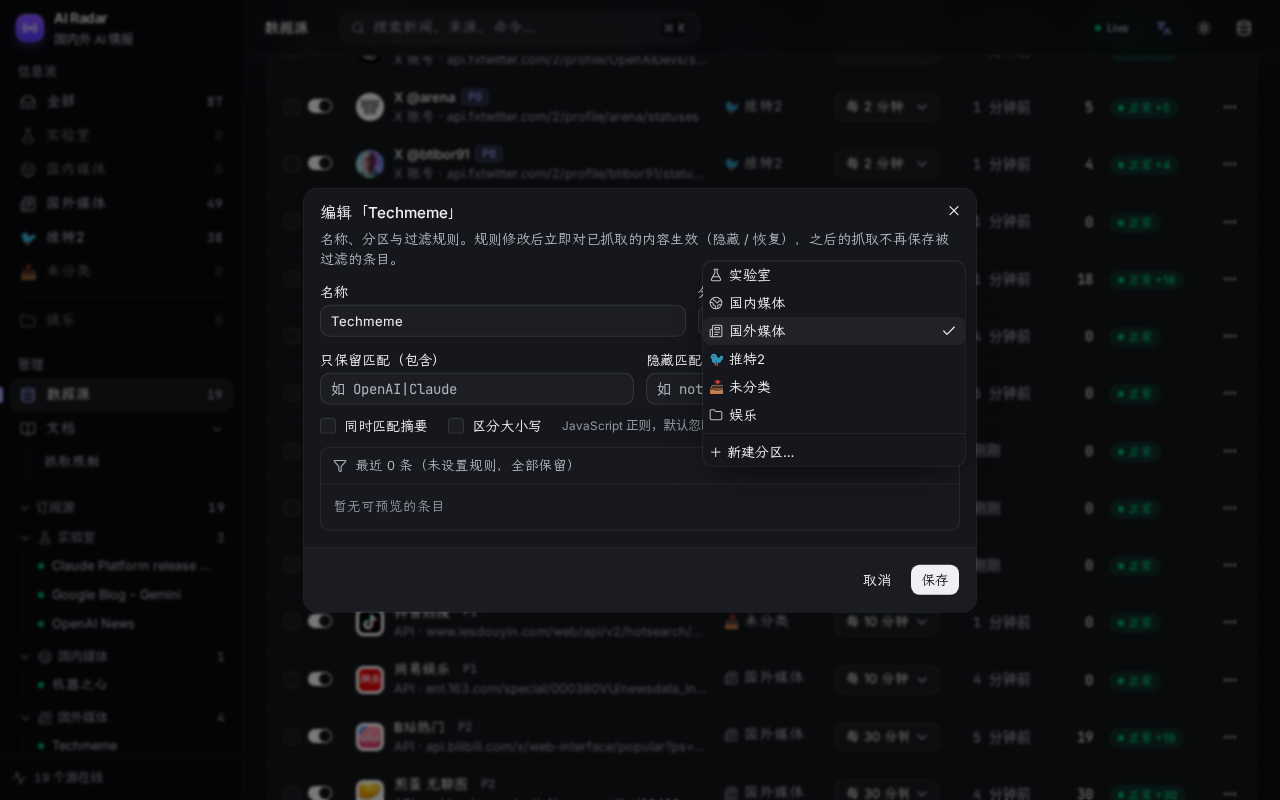
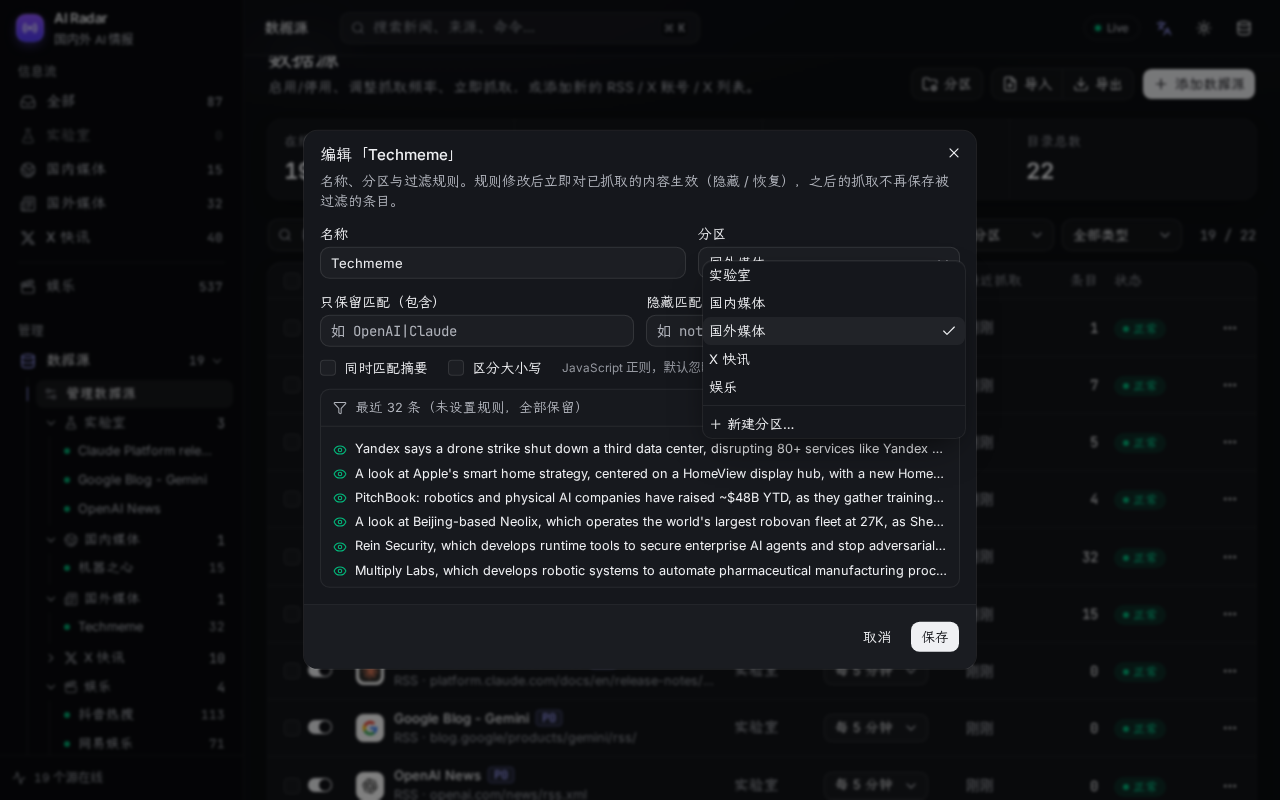
feat: sidebar 数据源 collapsible group with per-section source folders; section selects show names only

diff --git a/src/components/app-shell.tsx b/src/components/app-shell.tsx
@@ -152,15 +152,15 @@ function useClosedFolders() {
 }
 function SourceFolder({ s, icon: Icon, list, open, onToggle, children }: { s: Section; icon: React.ElementType; list: SourceRow[]; open: boolean; onToggle: () => void; children: React.ReactNode }) {
   return (
-    <Collapsible open={open} onOpenChange={onToggle} className="pt-1">
-      <CollapsibleTrigger aria-label={`文件夹：${s.zh}`} className="group flex h-7 w-full items-center gap-1.5 rounded-md px-2 type-meta text-faint outline-none transition-colors duration-150 ease-out hover:bg-hover hover:text-foreground focus-visible:ring-3 focus-visible:ring-ring/50">
+    <Collapsible open={open} onOpenChange={onToggle}>
+      <CollapsibleTrigger aria-label={`文件夹：${s.zh}`} className="group flex h-7 w-full items-center gap-1.5 rounded-md px-2 type-caption text-muted-foreground outline-none transition-colors duration-150 ease-out hover:bg-hover hover:text-foreground focus-visible:ring-3 focus-visible:ring-ring/50">
         <ChevronRight className="size-3.5 shrink-0 transition-transform duration-200 ease-out group-data-[panel-open]:rotate-90" />
         <Icon className="size-3.5 shrink-0 opacity-80" />
         <span className="min-w-0 flex-1 truncate text-left">{s.zh}</span>
         <span className="font-mono tabular-nums" title={`${list.length} 个来源`}>{list.length}</span>
       </CollapsibleTrigger>
       <CollapsibleContent>
-        <div role="group" aria-label={`${s.zh} 的订阅源`} className="relative ml-[13px] space-y-px border-l border-border pl-1.5">{children}</div>
+        <div role="group" aria-label={`${s.zh} 的订阅源`} className="relative ml-[13px] space-y-px border-l border-border pb-0.5 pl-1.5">{children}</div>
       </CollapsibleContent>
     </Collapsible>
   );
@@ -171,40 +171,46 @@ function SectionLabel({ children, first }: { children: React.ReactNode; first?: 
 }
 
 const DOCS_KEY = "sidebar.docs.open";
-function DocsGroup({ path, onGo }: { path: string; onGo: (href: string) => void }) {
-  const inDocs = path.startsWith("/docs");
-  const [open, setOpen] = useState(true);
-  useEffect(() => { const v = localStorage.getItem(DOCS_KEY); if (v != null) setOpen(v === "1"); }, []);
-  const toggle = (b: boolean) => { setOpen(b); localStorage.setItem(DOCS_KEY, b ? "1" : "0"); };
+const SOURCES_KEY = "sidebar.sources.open";
+/** Collapsible sidebar group (文档, 数据源): header row + chevron; open state persisted in localStorage `storageKey`.
+ *  `onHeader` (optional) makes the label navigate (文档 → /docs); without it the whole header toggles. */
+function NavGroup({ icon: Icon, label, count, storageKey, defaultOpen = true, current, inside, onHeader, children }: {
+  icon: React.ElementType; label: string; count?: number; storageKey: string; defaultOpen?: boolean; current?: boolean; inside?: boolean; onHeader?: () => void; children: React.ReactNode;
+}) {
+  const [open, setOpen] = useState(defaultOpen);
+  useEffect(() => { const v = localStorage.getItem(storageKey); if (v != null) setOpen(v === "1"); }, [storageKey]);
+  const toggle = (b: boolean) => { setOpen(b); localStorage.setItem(storageKey, b ? "1" : "0"); };
   return (
     <Collapsible open={open} onOpenChange={toggle}>
       <div className={cn("group relative flex h-8 w-full items-center rounded-lg type-body font-medium tracking-[-0.005em] transition-colors duration-150 ease-out",
-        path === "/docs" ? "bg-sidebar-accent text-sidebar-accent-foreground shadow-[inset_0_0_0_1px_var(--sidebar-border)]" : inDocs ? "text-foreground" : "text-muted-foreground hover:bg-hover hover:text-foreground")}>
-        {path === "/docs" && <span className="absolute -left-2.5 top-1/2 h-4 w-[3px] -translate-y-1/2 rounded-r-full bg-brand" />}
-        <button onClick={() => { onGo("/docs"); if (!open) toggle(true); }} className="flex h-full flex-1 items-center gap-2.5 rounded-lg pl-2.5 outline-none focus-visible:ring-3 focus-visible:ring-ring/50">
-          <BookOpen className={cn("size-4 transition-colors duration-150 ease-out", inDocs ? "text-brand" : "text-faint group-hover:text-foreground")} />
-          <span className="flex-1 text-left">文档</span>
+        current ? "bg-sidebar-accent text-sidebar-accent-foreground shadow-[inset_0_0_0_1px_var(--sidebar-border)]" : inside ? "text-foreground" : "text-muted-foreground hover:bg-hover hover:text-foreground")}>
+        {current && <span className="absolute -left-2.5 top-1/2 h-4 w-[3px] -translate-y-1/2 rounded-r-full bg-brand" />}
+        <button onClick={() => { if (onHeader) { onHeader(); if (!open) toggle(true); } else toggle(!open); }} aria-expanded={onHeader ? undefined : open}
+          className="flex h-full min-w-0 flex-1 items-center gap-2.5 rounded-lg pl-2.5 outline-none focus-visible:ring-3 focus-visible:ring-ring/50">
+          <Icon className={cn("size-4 transition-colors duration-150 ease-out", inside ? "text-brand" : "text-faint group-hover:text-foreground")} />
+          <span className="flex-1 truncate text-left">{label}</span>
+          {count != null && <span className="font-mono type-meta tabular-nums text-faint">{count}</span>}
         </button>
-        <CollapsibleTrigger aria-label={open ? "收起文档" : "展开文档"} className="mr-1 grid size-6 place-items-center rounded-md text-faint outline-none transition-colors duration-150 ease-out hover:bg-hover hover:text-foreground focus-visible:ring-3 focus-visible:ring-ring/50">
+        <CollapsibleTrigger aria-label={open ? `收起${label}` : `展开${label}`} className="mr-1 grid size-6 place-items-center rounded-md text-faint outline-none transition-colors duration-150 ease-out hover:bg-hover hover:text-foreground focus-visible:ring-3 focus-visible:ring-ring/50">
           <ChevronRight className={cn("size-3.5 transition-transform duration-200 ease-out", open && "rotate-90")} />
         </CollapsibleTrigger>
       </div>
       <CollapsibleContent>
-        <div className="relative ml-[17px] mt-px space-y-px border-l border-border py-0.5 pl-2">
-          {DOCS.map((d) => {
-            const on = path === docHref(d);
-            return (
-              <button key={d.slug} onClick={() => onGo(docHref(d))}
-                className={cn("relative flex h-7 w-full items-center gap-2 rounded-md px-2 type-caption transition-colors duration-150 ease-out outline-none focus-visible:ring-3 focus-visible:ring-ring/50",
-                  on ? "bg-sidebar-accent font-medium text-foreground" : "text-muted-foreground hover:bg-hover hover:text-foreground")}>
-                {on && <span className="absolute -left-[9.5px] top-1/2 h-3.5 w-px -translate-y-1/2 bg-brand" />}
-                <span className="truncate">{d.title}</span>
-              </button>
-            );
-          })}
-        </div>
+        <div className="relative ml-[17px] mt-px space-y-px border-l border-border py-0.5 pl-2">{children}</div>
       </CollapsibleContent>
     </Collapsible>
+  );
+}
+/** child row inside a NavGroup (doc pages, 管理数据源) */
+function GroupLink({ on, icon: Icon, children, onClick }: { on: boolean; icon?: React.ElementType; children: React.ReactNode; onClick: () => void }) {
+  return (
+    <button onClick={onClick}
+      className={cn("relative flex h-7 w-full items-center gap-2 rounded-md px-2 type-caption transition-colors duration-150 ease-out outline-none focus-visible:ring-3 focus-visible:ring-ring/50",
+        on ? "bg-sidebar-accent font-medium text-foreground" : "text-muted-foreground hover:bg-hover hover:text-foreground")}>
+      {on && <span className="absolute -left-[9.5px] top-1/2 h-3.5 w-px -translate-y-1/2 bg-brand" />}
+      {Icon && <Icon className="size-3.5 shrink-0 text-faint" />}
+      <span className="truncate">{children}</span>
+    </button>
   );
 }
 
@@ -243,24 +249,21 @@ export function SidebarBody({ onNavigate }: { onNavigate?: () => void }) {
           {outside.length > 0 && <div className="mx-2 my-2 h-px bg-border" role="separator" title="不计入「全部」" />}
           {outside.map(sec)}
           <SectionLabel>管理</SectionLabel>
-          <NavItem active={path === "/sources"} icon={Database} label="数据源" count={active.length} onClick={() => { router.push("/sources"); onNavigate?.(); }} />
-          <DocsGroup path={path} onGo={(h) => { router.push(h); onNavigate?.(); }} />
-          <Collapsible defaultOpen className="pt-4">
-            <CollapsibleTrigger className="group flex h-6 w-full items-center gap-1 px-2 type-meta font-medium tracking-[0.04em] text-faint transition-colors duration-150 ease-out hover:text-foreground">
-              <ChevronRight className="size-3.5 transition-transform duration-200 ease-out group-data-[panel-open]:rotate-90" />订阅源<span className="ml-auto font-mono tabular-nums">{active.length}</span>
-            </CollapsibleTrigger>
-            <CollapsibleContent className="space-y-px">
-              {sections.map((sec) => {
-                const list = listOf(sec.key);
-                if (!list.length) return null;
-                return (
-                  <SourceFolder key={sec.key} s={sec} icon={secIcon(sec)} list={list} open={!closed.has(sec.key)} onToggle={() => toggleFolder(sec.key)}>
-                    {list.map((s) => <SourceRowNav key={s.id} s={s} active={f.source === s.id && feed} onGo={() => go({ source: s.id })} />)}
-                  </SourceFolder>
-                );
-              })}
-            </CollapsibleContent>
-          </Collapsible>
+          <NavGroup icon={Database} label="数据源" count={active.length} storageKey={SOURCES_KEY} defaultOpen={false} inside={path === "/sources"}>
+            <GroupLink on={path === "/sources"} icon={Settings2} onClick={() => { router.push("/sources"); onNavigate?.(); }}>管理数据源</GroupLink>
+            {sections.map((sec) => {
+              const list = listOf(sec.key);
+              if (!list.length) return null;
+              return (
+                <SourceFolder key={sec.key} s={sec} icon={secIcon(sec)} list={list} open={!closed.has(sec.key)} onToggle={() => toggleFolder(sec.key)}>
+                  {list.map((s) => <SourceRowNav key={s.id} s={s} active={f.source === s.id && feed} onGo={() => go({ source: s.id })} />)}
+                </SourceFolder>
+              );
+            })}
+          </NavGroup>
+          <NavGroup icon={BookOpen} label="文档" storageKey={DOCS_KEY} current={path === "/docs"} inside={path.startsWith("/docs")} onHeader={() => { router.push("/docs"); onNavigate?.(); }}>
+            {DOCS.map((d) => <GroupLink key={d.slug} on={path === docHref(d)} onClick={() => { router.push(docHref(d)); onNavigate?.(); }}>{d.title}</GroupLink>)}
+          </NavGroup>
         </div>
       </ScrollArea>
       <div className="border-t border-sidebar-border p-3 type-meta text-faint">

diff --git a/src/components/Sources.tsx b/src/components/Sources.tsx
@@ -56,8 +56,7 @@ import { Tooltip, TooltipContent, TooltipTrigger } from "@/components/ui/tooltip
 import { cn } from "@/lib/utils";
 import { EmptyState } from "./empty-state";
 import { useApp } from "./app-shell";
-import { SectionName } from "./section-icon";
-import { type SectionKey, TYPE, type SourceRow, ago, api, bj, allSections, sourceSection } from "./common";
+import { type SectionKey, TYPE, type SourceRow, ago, api, bj, allSections, sourceSection, secZh } from "./common";
 import { SourceAvatar } from "./source-avatar";
 
 type StatusKey = "active" | "err" | "off" | "paused" | "all";
@@ -217,8 +216,8 @@ export default function Sources() {
           ))}
         </ButtonGroup>
         <Select value={fsec} onValueChange={(v) => setFsec(v as string)}>
-          <SelectTrigger className="w-[120px]"><SelectValue>{(v: string) => (v === "all" ? "全部分区" : <SectionName k={v as SectionKey} />)}</SelectValue></SelectTrigger>
-          <SelectContent><SelectItem value="all">全部分区</SelectItem>{sections.map((x) => <SelectItem key={x.key} value={x.key}><SectionName s={x} /></SelectItem>)}</SelectContent>
+          <SelectTrigger className="w-[120px]"><SelectValue>{(v: string) => (v === "all" ? "全部分区" : secZh(v as SectionKey))}</SelectValue></SelectTrigger>
+          <SelectContent><SelectItem value="all">全部分区</SelectItem>{sections.map((x) => <SelectItem key={x.key} value={x.key}>{x.zh}</SelectItem>)}</SelectContent>
         </Select>
         <Select value={ft} onValueChange={(v) => setFt(v as string)}>
           <SelectTrigger className="w-[120px]"><SelectValue>{(v: string) => (v === "all" ? "全部类型" : TYPE[v])}</SelectValue></SelectTrigger>
@@ -267,7 +266,7 @@ export default function Sources() {
                     </div>
                   </div>
                 </TableCell>
-                <TableCell className="hidden type-body text-muted-foreground md:table-cell"><SectionName k={sourceSection(s)} /></TableCell>
+                <TableCell className="hidden type-body text-muted-foreground md:table-cell">{secZh(sourceSection(s))}</TableCell>
                 <TableCell className="hidden sm:table-cell">
                   {s.supported ? (
                     <Select value={String(s.poll_interval)} onValueChange={(v) => patch(s, { poll_interval: Number(v) }, `${s.name} 改为每 ${ivLabel(Number(v))}`)}>

diff --git a/src/components/import-dialog.tsx b/src/components/import-dialog.tsx
@@ -16,7 +16,6 @@ import { Skeleton } from "@/components/ui/skeleton";
 import { cn } from "@/lib/utils";
 import { MAX_BYTES, SECTION_ZH, parseImport, type Entry, type ImportMode, type ImportPlan, type ParsedRow, type RowStatus } from "@/lib/portable";
 import { allSections, api, secZh } from "./common";
-import { SectionName } from "./section-icon";
 
 const MODES: { v: ImportMode; label: string; hint: string }[] = [
   { v: "merge", label: "合并", hint: "只添加新来源，已存在的保持不变（推荐）" },
@@ -130,8 +129,8 @@ export default function ImportDialog({ open, onOpenChange, onDone }: { open: boo
                 <div className="mt-1 flex min-w-0 flex-wrap items-center gap-2">
                   <Label className="type-caption text-muted-foreground">OPML 默认分区</Label>
                   <Select value={osec} onValueChange={(v) => { setOsec(v as Entry["section"]); preview(file, mode, v as Entry["section"]); }}>
-                    <SelectTrigger size="sm" className="w-[120px]"><SelectValue>{(v: string) => <SectionName k={v} />}</SelectValue></SelectTrigger>
-                    <SelectContent>{allSections().map((x) => <SelectItem key={x.key} value={x.key}><SectionName s={x} /></SelectItem>)}</SelectContent>
+                    <SelectTrigger size="sm" className="w-[120px]"><SelectValue>{(v: string) => secZh(v)}</SelectValue></SelectTrigger>
+                    <SelectContent>{allSections().map((x) => <SelectItem key={x.key} value={x.key}>{x.zh}</SelectItem>)}</SelectContent>
                   </Select>
                   <span className="type-meta text-faint">条目的 category 或文件夹名与分区同名时按其归类</span>
                 </div>

diff --git a/src/components/source-form-parts.tsx b/src/components/source-form-parts.tsx
@@ -13,7 +13,7 @@ import { Select, SelectContent, SelectItem, SelectSeparator, SelectTrigger, Sele
 import { Switch } from "@/components/ui/switch";
 import { cn } from "@/lib/utils";
 import { allSections } from "./common";
-import { SectionIcon, SectionName } from "./section-icon";
+import { SectionIcon } from "./section-icon";
 
 export const NEW_SECTION = "__new";
 export type NewSection = { name: string; icon: string; inAll: boolean };
@@ -41,10 +41,10 @@ export function SectionSelect({ value, onChange, allowNew = true, exclude, class
   return (
     <Select value={value} onValueChange={(v) => onChange(v as string)}>
       <SelectTrigger className={cn("w-full", className)} aria-label="分区">
-        <SelectValue>{(v: string) => (v === NEW_SECTION ? "＋ 新建分区…" : (() => { const s = opts.find((o) => o.key === v); return s ? <SectionName s={s} /> : "选择分区"; })())}</SelectValue>
+        <SelectValue>{(v: string) => (v === NEW_SECTION ? "＋ 新建分区…" : (() => { const s = opts.find((o) => o.key === v); return s ? s.zh : "选择分区"; })())}</SelectValue>
       </SelectTrigger>
       <SelectContent>
-        {opts.map((s) => <SelectItem key={s.key} value={s.key}><SectionName s={s} /></SelectItem>)}
+        {opts.map((s) => <SelectItem key={s.key} value={s.key}>{s.zh}</SelectItem>)}
         {allowNew && <><SelectSeparator /><SelectItem value={NEW_SECTION}>＋ 新建分区…</SelectItem></>}
       </SelectContent>
     </Select>

diff --git a/AGENTS.md b/AGENTS.md
@@ -205,7 +205,8 @@ See **docs/rate-limits.md** (or `/docs/rate-limits` in the app). Don't poll fast
 - **Icon picker** (`icon-picker.tsx`, lazy via `next/dynamic` inside a shadcn `Popover`; trigger = `IconPicker` in `source-form-parts.tsx`): ~90 curated emoji in 5 categories (AI/科技, 视频/图像, 资讯/写作, 商业/安全, 娱乐), zh/en keyword search, 8 recents (`localStorage iconPicker.recent`), preview + 清除图标. Lucide icons deliberately not offered (bundle cost).
 - **Section delete**: from /sources 「分区」 dialog or the sidebar ⚙ (opens the same dialog). AlertDialog warns it can't be undone, shows affected source count, has 「先导出备份（JSON）」 (`exportBackup()`), then the move-to select (defaults to 国外媒体 when present) and destructive confirm. Applies to every section (see "All sections are user-managed").
 - **Rename sources**: click the name on /sources (inline Input; Enter/blur saves, Esc cancels), row menu 「重命名」, or the edit dialog. `PATCH /api/sources/[id] {name}`: trimmed, 1–80 chars, unique (case-insensitive), marks `name` override. Seed sources keep their sources.json name in `sources.seed_name`; `seed()` and delete tombstones match on `COALESCE(seed_name, name)`, so seed sync never reverts a rename or re-adds a duplicate. Feed/sidebar/export read `sources.name`, so the new name shows everywhere.
-- **Sidebar**: top section rows are plain filters (+ hover ⚙ → 管理分区). The bottom 「订阅源」 list groups sources into one collapsible folder per section (`SourceFolder`, trigger aria-label `文件夹：<name>`); folders are open by default, collapsed ones persist in `localStorage sidebar.folders.closed`. (The short-lived per-section chevron tree was removed.)
+- **Sidebar**: top section rows are plain filters (+ hover ⚙ → 管理分区). 管理 › 「数据源」 is a `NavGroup` (same component as 「文档」) that only toggles (no navigation); its first child 「管理数据源」 links to /sources, then one `SourceFolder` per section (user order, trigger aria-label `文件夹：<name>`) listing its sources (counts, status, unsubscribe+undo, click = filter by source). Group open state: `localStorage sidebar.sources.open` (default collapsed); collapsed folders: `sidebar.folders.closed`. There is no separate bottom 订阅源 list.
+- Section selects (add/edit, /sources filter, move-to, import preview) and the /sources section column show the NAME only (no icon); icons appear in sidebar rows/folders, manage dialog, icon picker, feed/drawer/palette badges.
 - NavItem merges `className` last (so `pr-8` beats the base `px-2.5`).
 - Tests: external Playwright t8 (icon picker, delete + backup download + cancel, rename + restart, tree persistence).
 
@@ -218,3 +219,4 @@ See **docs/rate-limits.md** (or `/docs/rate-limits` in the app). Don't poll fast
 - Import/export: JSON v2 `sections[]` lists every section used by the exported sources (renamed defaults included). Import resolves by NAME, then default key (lab/cn/media/x/ent) if it still exists, else creates the section by name (v1 legacy keys use the default names, 娱乐 created outside 全部), else 未分类. OPML: every section folder carries `sectionCustom="1" sectionKey=… sectionInAll=… sectionIcon=…`; foreign OPML folders match current section names, then legacy names, else the chosen default.
 - Tests: external Playwright t9 (menu label, rename/re-icon/reorder/delete 娱乐, restart no-resurrection, 未分类 fallback, v1 import, v2 roundtrip with renamed default).
 - Section icons: render ONLY via `components/section-icon.tsx` (`SectionIcon`, `SectionName`, `secIcon`). Stored icons may be `lucide:<key>` tokens; never print `section.icon` as text. Exports keep the token verbatim. Playwright t10 asserts no visible `lucide:` text across pages/dialogs/selects/menus.
+- Playwright: run `bash /workspace/e2e/runall.sh <backup.db>` — restores the DB before EACH test file (no order dependency). t11 covers the 数据源 group and plain-text section selects.

diff --git a/README.md b/README.md
@@ -128,7 +128,7 @@ npm run build && npm run start -- -p 3000
 - **分区图标**：点图标按钮打开选择器，可按分类浏览、搜索（如「视频」「设计」）、使用最近选过的图标，或清除图标。
 - **管理分区**：所有分区（包括原来的实验室、国内媒体、国外媒体、X 快讯、娱乐）都可在「数据源 › 分区」或侧栏分区上的 ⚙ 里重命名、换图标、上下移动排序、设置是否计入「全部」或删除；只有「全部」固定。删除时会提示无法撤销、影响多少来源，并提供「先导出备份（JSON）」；有来源的分区需选择要移入的分区。重启或内置源同步不会恢复已删除的分区，也不会改回你的修改；新增的内置源若原分区已被删除，会放进自动创建的「未分类」。
 - **重命名来源**：在「数据源」列表点名称直接编辑（回车保存、Esc 取消），或行菜单「重命名」/「编辑」。重命名会保留，重启和内置源同步都不会改回；信息流、侧栏、导出都使用新名称。
-- **侧栏订阅源**：底部「订阅源」按分区分成可折叠的文件夹（默认展开，折叠状态会记住）；点订阅源筛选该来源，悬停可取消订阅。顶部分区行用于筛选整个分区。
+- **侧栏数据源**：「管理 › 数据源」和「文档」一样是可折叠分组（点标题只展开/收起），第一项「管理数据源」进入数据源页；下面每个分区是一个可单独折叠的文件夹，列出该分区的订阅源（点击筛选该来源，悬停可取消订阅）。展开状态会记住。
 
 ## 数据保留与资源
 
